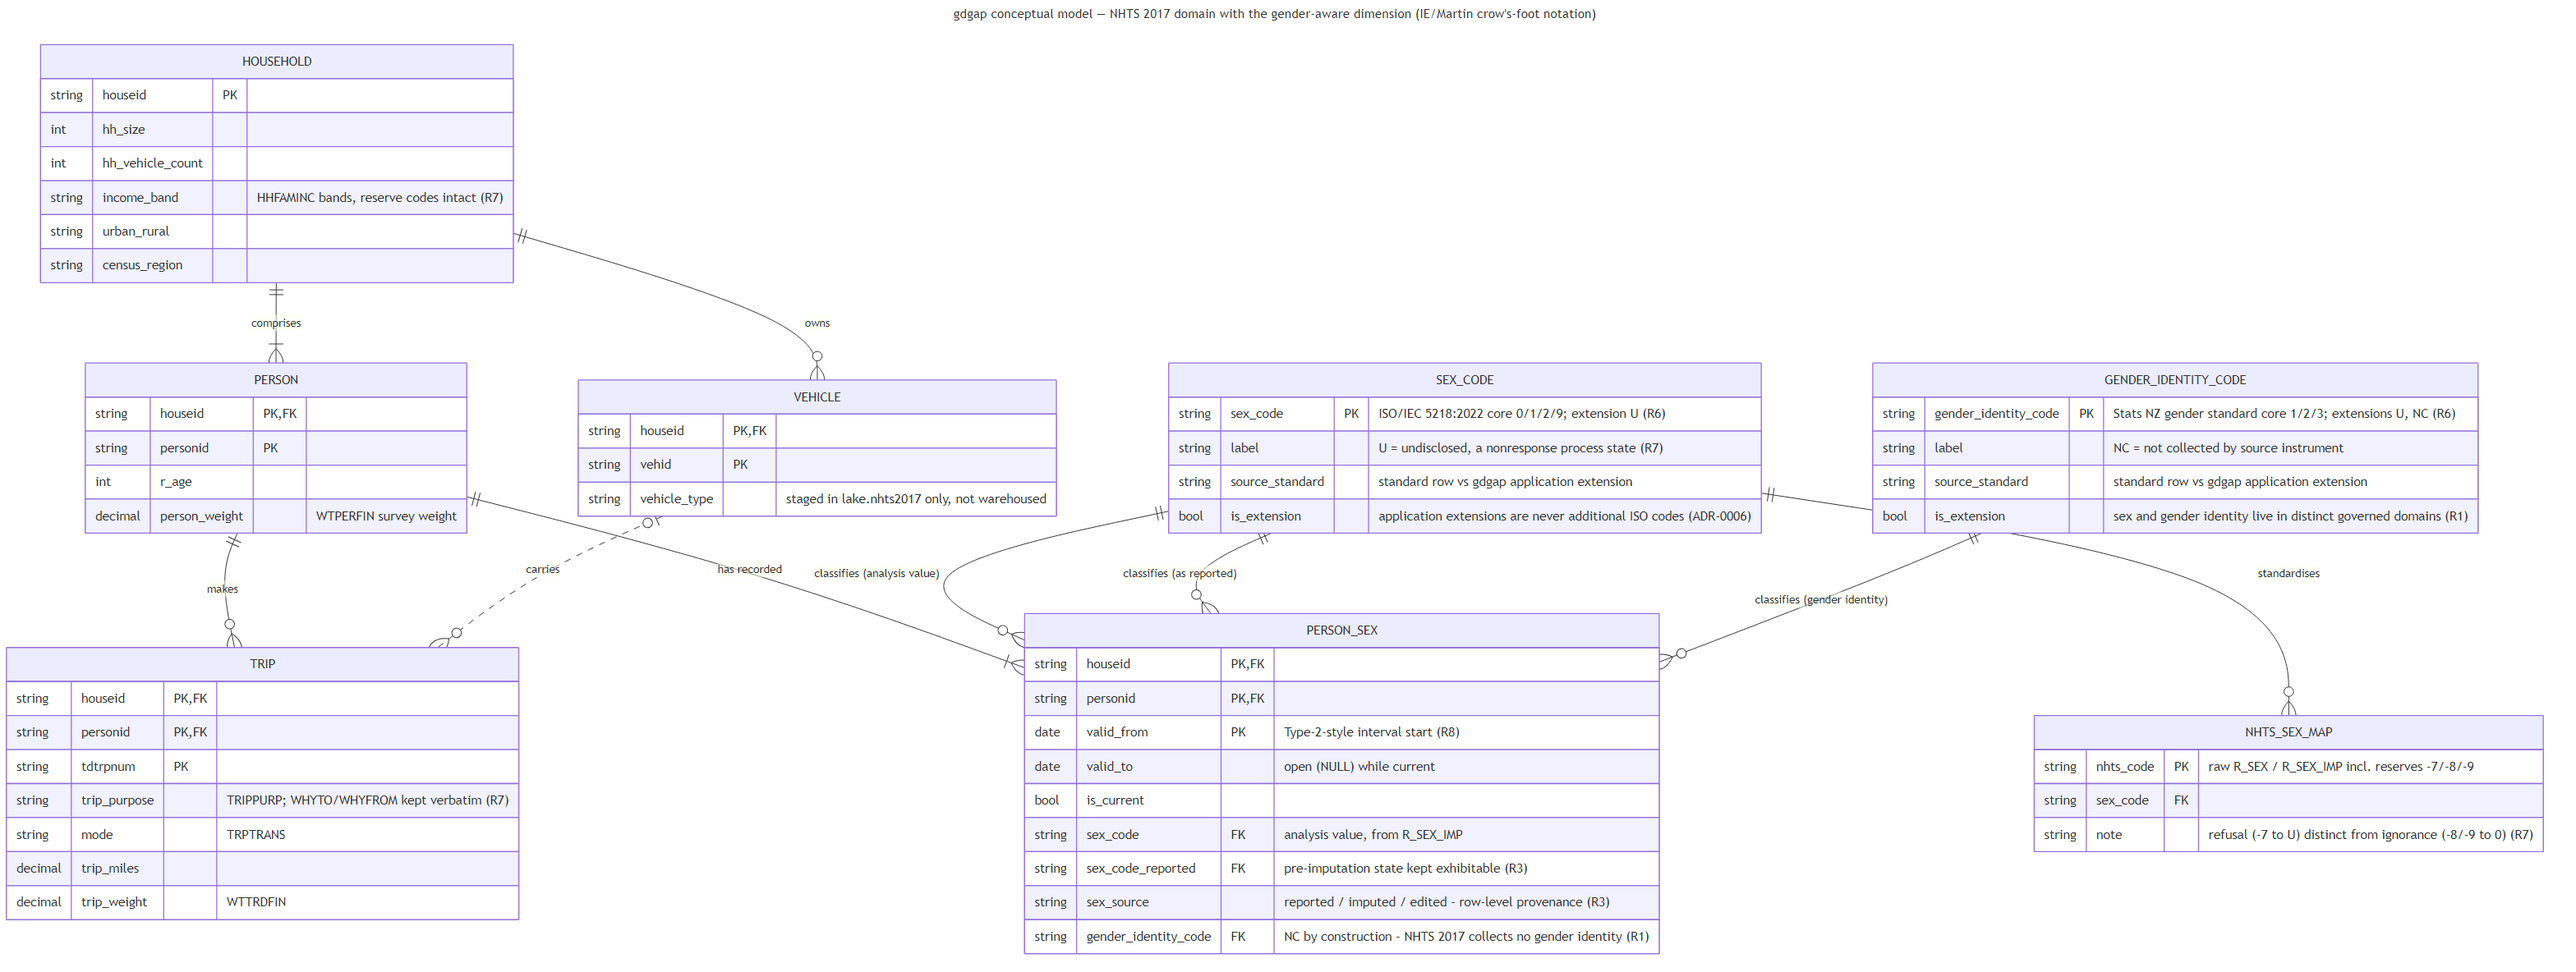
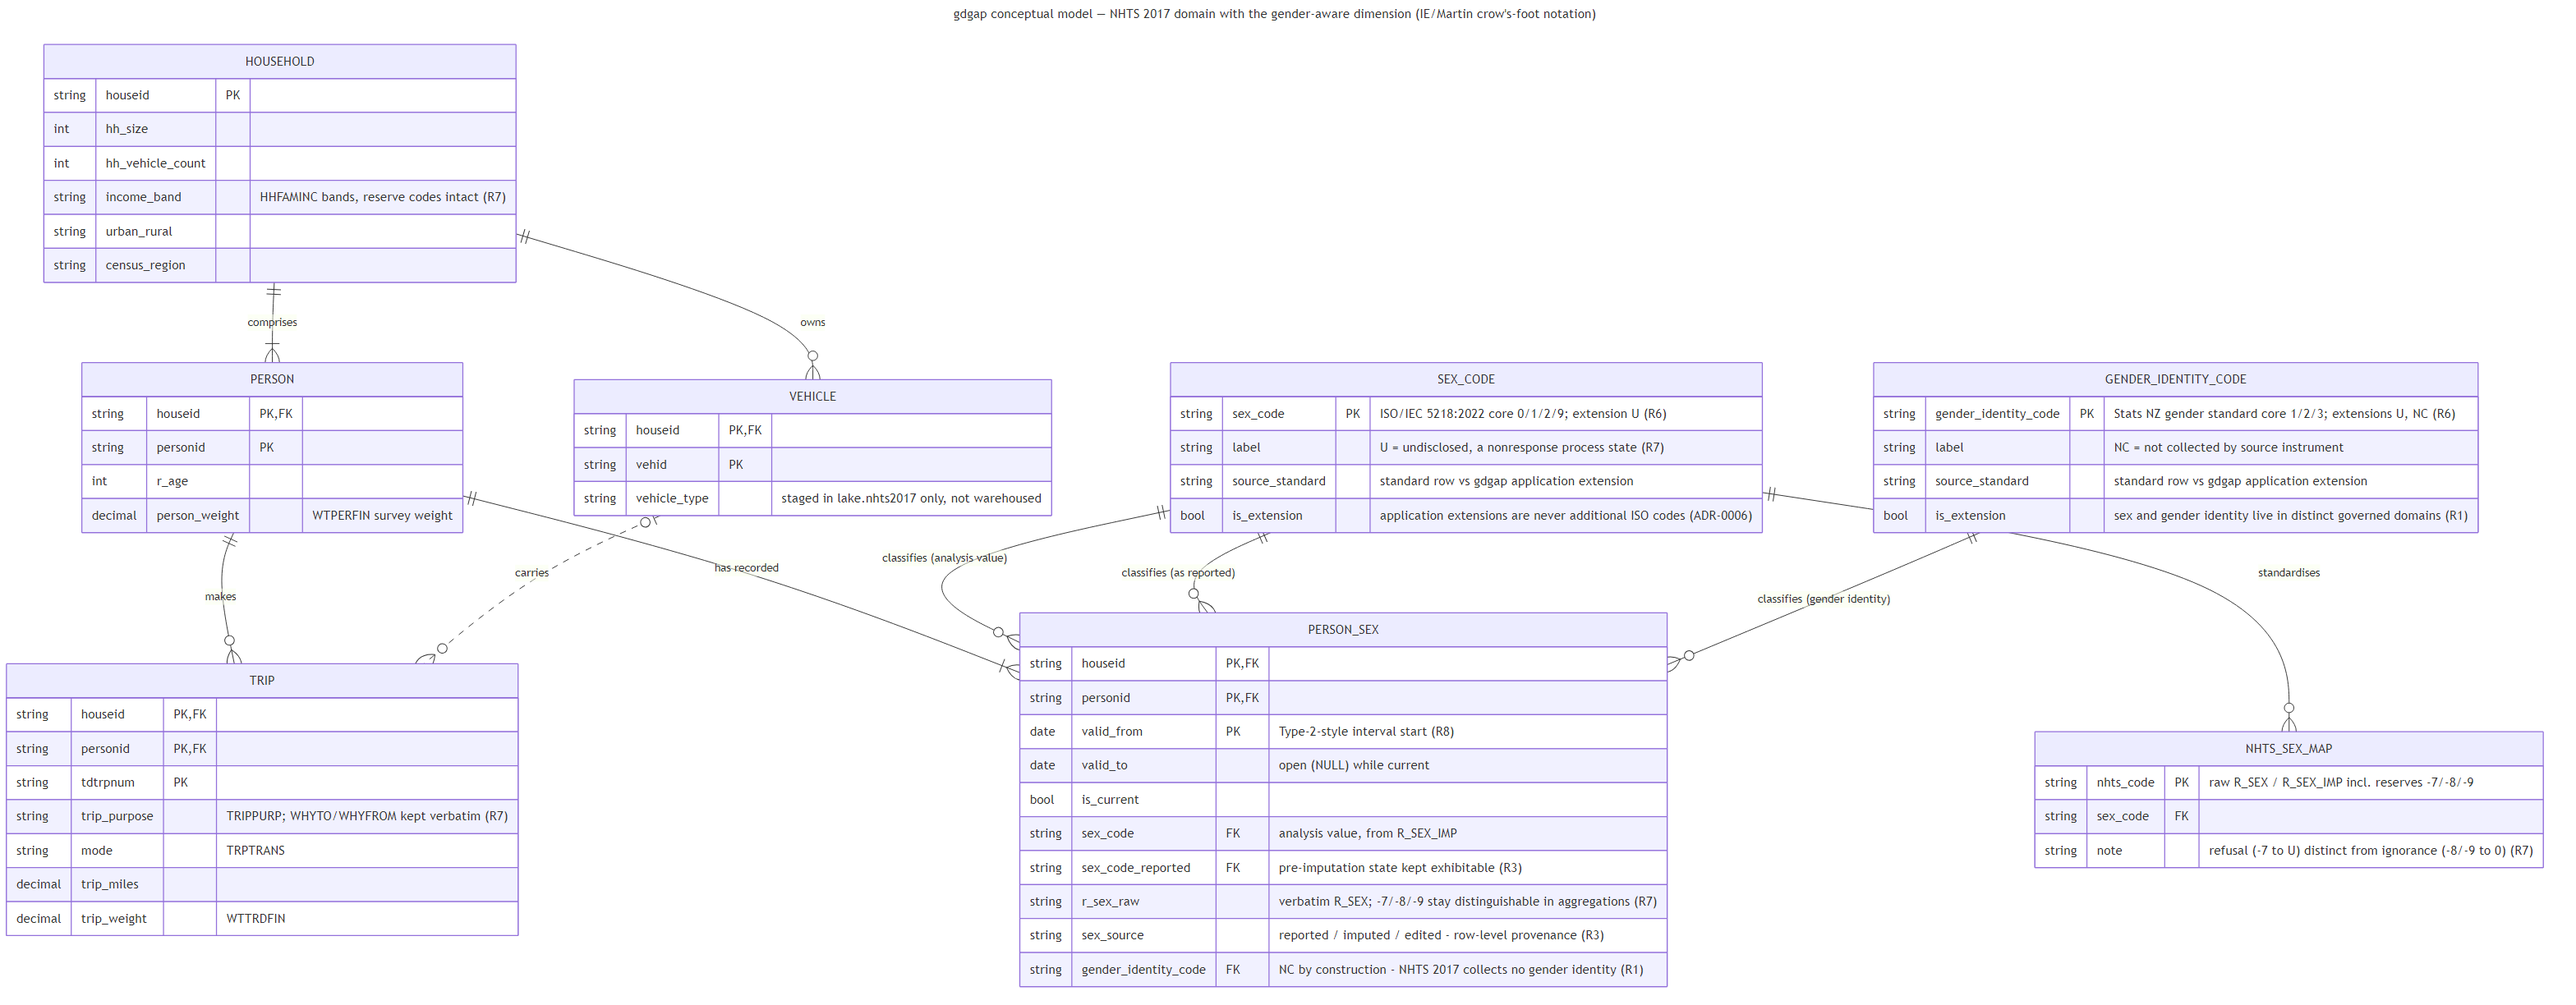
feat: introduce new r_sex_raw col carrying R_SEX verbatim, record diagnosis in adr-0007

diff --git a/tests/integration/test_build_lake.py b/tests/integration/test_build_lake.py
@@ -56,6 +56,9 @@ def test_build_aware_dimension_and_measures(lake_root):
     assert mislabelled == 0
     # NHTS 2017 collects no gender identity: the attribute exhibits non-collection by construction
     assert _lake_query(lake_root, "select distinct gender_identity_code from lake.aware.dim_person_sex") == [("NC",)]
+    # Verbatim raw retention (R7, ADR-0007): reserve states stay distinguishable next to mapped codes
+    raw_pairs = _lake_query(lake_root, "select r_sex_raw, sex_code_reported from lake.aware.dim_person_sex order by 1")
+    assert raw_pairs == [("-7", "U"), ("01", "1"), ("02", "2")]
     sources = dict(_lake_query(lake_root, "select sex_source, count(*) from lake.aware.dim_person_sex group by 1"))
     assert sources == {"reported": 2, "imputed": 1}
     imputation = dict(_lake_query(lake_root, "select sex_source, persons from lake.aware.v_sex_imputation_share"))

diff --git a/CHANGELOG.md b/CHANGELOG.md
@@ -31,6 +31,7 @@ and this project adheres to [Semantic Versioning](https://semver.org/spec/v2.0.0
 
 ### Changed
 
+- R7 closed at the analytical layer (new `docs/adr/0007-response-state-granularity.md`): `dim_person_sex` now retains the reported NHTS code verbatim as `r_sex_raw` (both backends), so refusal (`-7`), don't-know (`-8`), and not-ascertained (`-9`) stay distinguishable in warehouse aggregations — previously the ISO analysis domain's single `0` merged the two ignorance kinds and the dimension carried only mapped codes, confining full granularity to the registered raw tables. Minting distinct sex codes for the ignorance kinds was rejected per the ADR-0006 labelling rule; the documented ISO-granularity merge stays in the analysis code where it belongs. R7's design hook and evidence updated in `docs/requirements.md`; `PERSON_SEX.r_sex_raw` added to `docs/model/conceptual.mmd` (PNG re-rendered, pinned mmdc 11.12.0, `-b white -s 4`); `tests/integration/test_build_lake.py` asserts the raw/mapped pairs incl. the fixture's `-7`→`U` row.
 - Sex and gender identity separated into distinct governed code domains (R1 critique; new `docs/adr/0006-sex-gender-domain-separation.md`): `sql/ddl/aware/01_dim_sex_code.sql` now carries only the ISO/IEC 5218:2022 core plus `U` — a governed application extension for the nonresponse process state behind R7's refusal-vs-ignorance mapping, never an additional ISO code — and the former `X` row's concept moved to the new, separately governed `02_dim_gender_identity_code.sql` (Stats NZ-anchored `1/2/3` plus `U`/`NC` application extensions; both backends). `dim_person_sex` gained `gender_identity_code`, `NC` (not collected by source instrument) by construction, making NHTS 2017's non-collection of gender identity queryable — the gap exhibited, with the R9 analytical purpose stated in the ADR. Aware DDL renumbered `01..07` in both backend dirs to open slot 02. `docs/model/conceptual.mmd` gained the `GENDER_IDENTITY_CODE` entity, the `PERSON_SEX.gender_identity_code` attribute, and corrected `SEX_CODE` annotations (PNG re-rendered with the pinned mmdc 11.12.0, `-b white -s 4`); R1/R6 design hooks updated in `docs/requirements.md`; `tests/integration/test_build_lake.py` now asserts the two domains, the all-`NC` population, `X` absent from the sex list, and that no extension row claims an ISO source. The implemented case reads sex-aware and gender-identity-ready.
 - SCD wording aligned with what is demonstrated, plus new `docs/adr/0005-scd-attribution-semantics.md`: the headers of `sql/ddl/aware/03_dim_person_sex.sql` and `sql/ddl/aware/innodb/03_dim_person_sex.sql`, the labels in `docs/model/conceptual.mmd`, and the R8 design hook in `docs/requirements.md` now say "Type-2-style (validity-interval)" instead of "SCD-2", and R8 gained a scope note: the artefact demonstrates SCD mechanics and history retention, while the analytical views deliberately report by current recorded identity (natural key + `is_current`; the facts carry no dimension-version key) — a reporting-semantics decision recorded in ADR-0005, with richer attribution semantics left as future work in general terms. Rationale: the single-snapshot case cannot exercise historical attribution, and version keys on facts would break the identical-fact-grain blind/aware contrast the experiment rests on. `docs/model/conceptual.png` re-rendered from the amended `.mmd` with `@mermaid-js/mermaid-cli` (mmdc) 11.12.0 at doubled resolution for readability (`-b white -s 4`, 3136×1584 px; previous render used `-s 2`, 1568×792 px); the render pin is now also a comment in `conceptual.mmd`.
 - `src/gdgap/ingest/nhts2017.py`: `R_SEX`/`R_SEX_IMP` are now pinned VARCHAR at ingest via an explicit `read_csv` `types` override (new per-table `TYPE_OVERRIDES` + `_read_csv_options()`), so R7's verbatim survival of the zero-padded sex codes and reserve codes is a declared schema-on-write contract at the CSV→lake boundary instead of an emergent effect of the sniffer's leading-zero heuristic (fragile against engine upgrades and upstream padding changes; the aware build's string-code joins in `sql/ddl/aware/03_dim_person_sex.sql` and the summarizer's code labels depend on it). R7's design hook in `docs/requirements.md` reworded to name the override. Covered by `tests/integration/test_ingest_lake.py::test_ingest_pins_sex_codes_verbatim` (declared types + verbatim values incl. `-7`) and new `tests/unit/test_ingest_types.py` (override applies to perpub only). Lake tables are unchanged byte-for-byte — the override declares what inference already happened to produce.

diff --git a/docs/adr/0007-response-state-granularity.md b/docs/adr/0007-response-state-granularity.md
@@ -1,0 +1,21 @@
+# ADR 0007: Response-state granularity — ISO analysis codes plus verbatim raw retention
+
+- Status: accepted
+- Date: 2026-08-04
+
+## Context
+
+R7 promises that the reserve codes — prefer not to answer (`-7`), don't know (`-8`), not ascertained (`-9`) — survive ingest, storage, and aggregation as distinct first-class values. The registered raw tables satisfy this fully (verbatim VARCHAR codes under the declared ingest override, exhibited by the profiling code lists), and refusal survives into the analysis domain as `U`. But ISO/IEC 5218 offers a single `0 — Not known`, so `map_nhts_sex` sends both `-8` and `-9` to `0` — documented in the map's note column — and the dimension previously carried only mapped codes: warehouse aggregations could not distinguish the two ignorance kinds without joining back to the raw layer. Minting distinct sex codes for the ignorance kinds would re-violate the ADR-0006 labelling rule (local rows are governed application extensions, never additional standard codes) and would push response-process detail into the analysis domain. In the case data, `-9` never occurs in `R_SEX` (`-7` × 209 and `-8` × 34 do), so the merge is latent rather than exercised — but the schema, not the data accident, should carry the guarantee.
+
+## Decision
+
+- `dim_person_sex` retains the reported NHTS code verbatim as `r_sex_raw`, alongside the mapped `sex_code_reported`. Warehouse aggregations exhibit `-7`/`-8`/`-9` directly from the dimension; the ISO-granularity merge remains in the analysis code where it belongs.
+- A derived response-status vocabulary (e.g. reported/refused/dont_know/not_ascertained) was considered and rejected: it duplicates what the verbatim raw already provides while adding a code list to govern.
+- The stated analytical purpose of the column (R9's minimisation test): exhibitability of source response states at the analytical layer.
+- The imputed-side raw (`R_SEX_IMP`) is not duplicated into the dimension: in this dataset it contains no reserve codes, its mapped value is lossless, and `sex_source` already records when imputation changed the value. Revisit per dataset.
+
+## Consequences
+
+- R7 holds at every layer — ingest, registered storage, and warehouse aggregation — without pseudo-standard codes; the fix follows the ADR-0006 pattern (raw truth retained, standards kept clean).
+- Cost: one VARCHAR column on the dimension (dictionary-encoded in Parquet, negligible), reported through the R11 complexity/storage accounting like everything else.
+- Blind/aware fact symmetry, equity views, and the bench catalogue are untouched.

diff --git a/docs/requirements.md b/docs/requirements.md
@@ -57,8 +57,8 @@ Corpus streams: disaggregation mandates (SAGER — Heidari et al., 2016; UN Wome
 
 - Requirement: Reserve codes — prefer not to answer, don't know, not ascertained, appropriate skip — survive ingest, storage, and aggregation as distinct first-class values; no silent coercion to NULL, to a default sex, or to each other; aggregations can always exhibit them.
 - Sources: D'Ignazio & Klein (2020) — embrace pluralism, consider context; Cifor et al. (2019) — refusal carries meaning and must not be erased.
-- Design hook: raw codes preserved verbatim at ingest by a declared `read_csv` type override pinning `R_SEX`/`R_SEX_IMP` to VARCHAR (zero-padding included) rather than leaving the type to sniffer inference; aware-variant code list gives each reserve state its own row.
-- Evidence: profiling structure/codelist CSVs (0 NULL cells, reserve codes intact); 5.1 queries exposing the categories.
+- Design hook: raw codes preserved verbatim at ingest by a declared `read_csv` type override pinning `R_SEX`/`R_SEX_IMP` to VARCHAR (zero-padding included) rather than leaving the type to sniffer inference; the reserve-code mapping gives each raw state its own row; the analytical dimension retains the reported code verbatim (`r_sex_raw`), so refusal, don't-know, and not-ascertained stay distinguishable in warehouse aggregations even though the ISO analysis domain merges the two ignorance kinds into `0` (ADR-0007).
+- Evidence: profiling structure/codelist CSVs (0 NULL cells, reserve codes intact); `r_sex_raw` in the aware dimension; 5.1 queries exposing the categories.
 
 ## R8 — Gender is time-variant; the model records change
 
